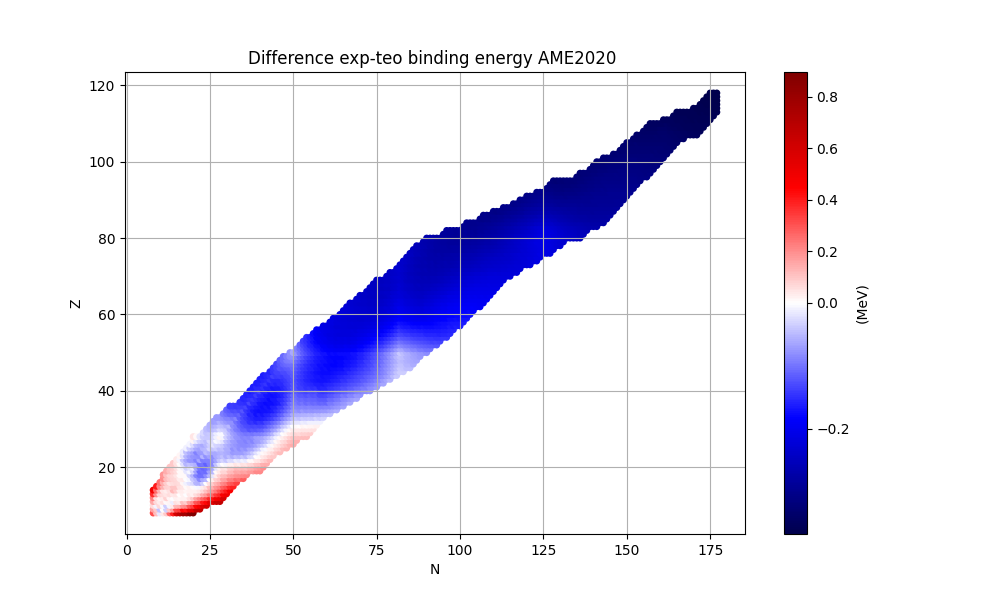
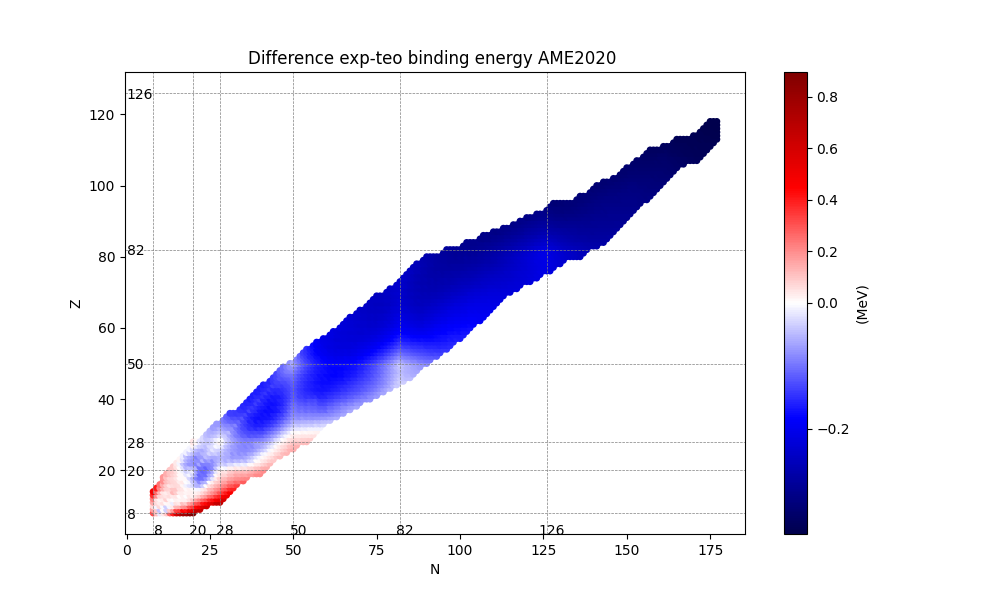
CNN-I3 + comments

diff --git a/CNN-I3.py b/CNN-I3.py
@@ -6,38 +6,37 @@ import numpy as np
 import matplotlib.pyplot as plt
 from sklearn.model_selection import train_test_split
 
-csv_file = 'Data/mass2016_cleaned.csv'  
+csv_file = 'data/mass2016_cleaned.csv'  
 data = pd.read_csv(csv_file, delimiter=';')
 
 def create_5x5_neighborhood(data, idx):
-    current_n = data.iloc[idx]['N']
+    current_n = data.iloc[idx]['N'] #Extracting data for the specified 'idx' row and 'N' column of the dataframe.
     current_z = data.iloc[idx]['Z']
     
     z_grid = np.zeros((5, 5))
     n_grid = np.zeros((5, 5))
     bind_ene_grid = np.zeros((5, 5))
+    bind_ene_mean = data['bind_ene'].mean()
     
-    for i in range(-2, 3):
+    for i in range(-2, 3): #The neighbourhood is defined from -2 to 2, 0 being the central value.
         for j in range(-2, 3):
-            neighbor_n = current_n + i
+            neighbor_n = current_n + i #Neighbours of the target nucleus.
             neighbor_z = current_z + j
-            neighbor_idx = data[(data['N'] == neighbor_n) & (data['Z'] == neighbor_z)].index
-            
-            if len(neighbor_idx) > 0:
-                z_grid[i+2, j+2] = neighbor_z
-                n_grid[i+2, j+2] = neighbor_n
+            neighbor_idx = data[(data['N'] == neighbor_n) & (data['Z'] == neighbor_z)].index #indexes of all the neighbours
+                                                                                             #that have 'neighbor_n' and 'neighbor_z' 
+            z_grid[i+2, j+2] = neighbor_z #We add +2 because matrices start at [0,0] (top left corner)
+            n_grid[i+2, j+2] = neighbor_n  
+
+            if len(neighbor_idx) > 0: #Verify if any index has been found
                 bind_ene_grid[i+2, j+2] = data.iloc[neighbor_idx[0]]['bind_ene']
             else:
-                z_grid[i+2, j+2] = 0
-                n_grid[i+2, j+2] = 0
-                bind_ene_grid[i+2, j+2] = 0
-    
-    bind_ene_grid[2, 2] = 0
-    
+                bind_ene_grid[i+2, j+2] = bind_ene_mean #In the limits of the nuclear chart the mean value will be computed.
+
+    bind_ene_grid[2, 2] = 0 #Target nucleus assigned to zero
     return z_grid, n_grid, bind_ene_grid
 
-inputs = []
-targets = []
+inputs = [] #5x5x3 matrices of inputs
+targets = [] #Binding energies of the target nucleus
 
 for idx in range(len(data)):
     z_grid, n_grid, bind_ene_grid = create_5x5_neighborhood(data, idx)
@@ -46,47 +45,50 @@ for idx in range(len(data)):
     target_value = data.iloc[idx]['bind_ene']
     targets.append(target_value)
 
-inputs_tensor = torch.tensor(np.array(inputs), dtype=torch.float32)
-targets_tensor = torch.tensor(np.array(targets), dtype=torch.float32).view(-1, 1)
+inputs_tensor = torch.tensor(np.array(inputs), dtype=torch.float32) #shape: (n, 3, 5, 5) where 'n' is the number of nucleus
+targets_tensor = torch.tensor(np.array(targets), dtype=torch.float32).view(-1, 1) #shape: (n, 1)
 
 train_inputs, test_inputs, train_targets, test_targets = train_test_split(inputs_tensor, targets_tensor, test_size=0.2, random_state=42)
 
 
 class CNN_I3(nn.Module):
     def __init__(self):
-        super(CNN_I3, self).__init__()
-        self.conv1 = nn.Conv2d(in_channels=3, out_channels=16, kernel_size=3, stride=1, padding=1)
-        self.conv2 = nn.Conv2d(in_channels=16, out_channels=32, kernel_size=3, stride=1, padding=1)
-        self.fc = nn.Linear(32 * 5 * 5, 1)
+        super(CNN_I3, self).__init__() #We initialize the nn.Module class
+        self.conv1 = nn.Conv2d(in_channels=3, out_channels=16, kernel_size=3, stride=1, padding=1) #Basic features
+        self.conv2 = nn.Conv2d(in_channels=16, out_channels=32, kernel_size=3, stride=1, padding=1) #More complex features
+        self.fc = nn.Linear(32 * 5 * 5, 1) #Number of input features=32*5*5=800. Output features=1.
         self.relu = nn.ReLU()
 
-    def forward(self, x):
+    def forward(self, x): #'x' is the input
         x = self.relu(self.conv1(x))
-        x = self.relu(self.conv2(x))
-        x = x.view(x.size(0), -1)  
+        x = self.relu(self.conv2(x)) #We have a 4D tensor: (batch size, channels, height, width).
+        x = x.view(x.size(0), -1) #The fc requires a 2D tensor: (batch size, features). batch_size=x.size(0)
         x = self.fc(x)
         return x
 
-model = CNN_I3()
-criterion = nn.MSELoss() 
-optimizer = optim.Adam(model.parameters(), lr=0.001)
+model = CNN_I3() #Instance of our model
+criterion = nn.MSELoss() #Instance of the MSE
+optimizer = optim.Adam(model.parameters(), lr=0.001) #model.parameters()=weights and biases to optimize
+#lr=how much to adjust the model's parameters with respect to the loss gradient in each epoch.
+#Adam=adaptative moment estimation. It calculates a separate learning rate for each parameter
 
-num_epochs = 500 
+num_epochs = 10 
 for epoch in range(num_epochs):
     model.train()
-    optimizer.zero_grad()
+    optimizer.zero_grad() #Reset of gradients to zero to avoid accumulation from previous runs
     train_outputs = model(train_inputs)
     train_loss = criterion(train_outputs, train_targets)
-    train_loss.backward()
-    optimizer.step()
+    train_loss.backward() #Gradients of the loss with respect to model parameters using backpropagation
+    optimizer.step() #We update the model parameters using the calculated gradients
     print(f'Epoch [{epoch+1}/{num_epochs}], Training Loss: {train_loss.item()}')
 
     model.eval()
-    with torch.no_grad():
+    with torch.no_grad(): #We disable gradient calculation for the test phase
         test_outputs = model(test_inputs)
         test_loss_mse = criterion(test_outputs, test_targets)
         test_loss_rmse = torch.sqrt(test_loss_mse)
     print(f'Epoch [{epoch+1}/{num_epochs}], Test Loss (RMSE): {test_loss_rmse.item()}')
+
     
 torch.save(model.state_dict(), 'cnn_i3_model.pt')
 

diff --git a/data_extraction.py b/data_extraction.py
@@ -115,10 +115,15 @@ scatter = plt.scatter(df2020['N'], df2020['Z'], c=df2020['Diff_bind_ene'],
                       cmap='seismic', norm=norm, edgecolor='None', s=25)
 cbar = plt.colorbar(scatter)
 cbar.set_label('(MeV)')
+magic_numbers = [8, 20, 28, 50, 82, 126]
+for magic in magic_numbers:
+    plt.axvline(x=magic, color='gray', linestyle='--', linewidth=0.5)
+    plt.axhline(y=magic, color='gray', linestyle='--', linewidth=0.5)
+    plt.text(magic + 1.5, 1, str(magic), color='black', fontsize=10, ha='center', va='bottom')
+    plt.text(0, magic - 0.5, str(magic), color='black', fontsize=10, ha='left', va='center')
 plt.xlabel('N')
 plt.ylabel('Z') 
 plt.title('Difference exp-teo binding energy AME2020 ')
-plt.grid()
 plt.savefig('Binding energy plots/bind_teoexp_dif.png')
 plt.show()
 
@@ -146,7 +151,7 @@ def calculate_shell_gaps(df, element, axis): #Neutrons--> element=n, axis=Z; Pro
 
 def plot_shell_gaps(df, gap_col, title, filename, vmin, vmax, xlim=None, ylim=None): #gap_col=delta_2n or delta_2p
     plt.figure(figsize=(10, 6))
-    scatter = plt.scatter(df['N'], df['Z'], c=df[gap_col]*(-1), cmap='jet', edgecolor='None', s=15, vmin=vmin, vmax=vmax)
+    scatter = plt.scatter(df['N'], df['Z'], c=df[gap_col]*(-1), cmap='jet', edgecolor='None', s=25, vmin=vmin, vmax=vmax)
     cbar = plt.colorbar(scatter)
     cbar.set_label('(MeV)')
 
